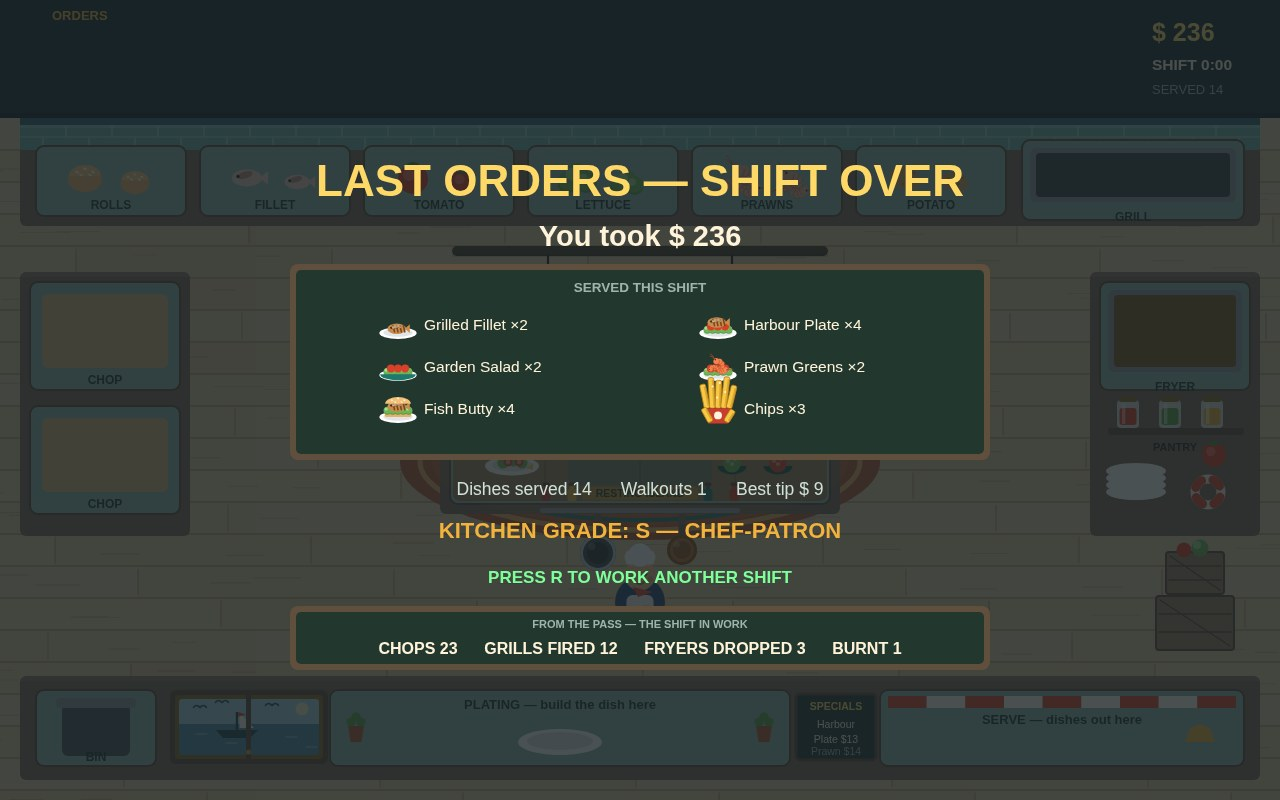
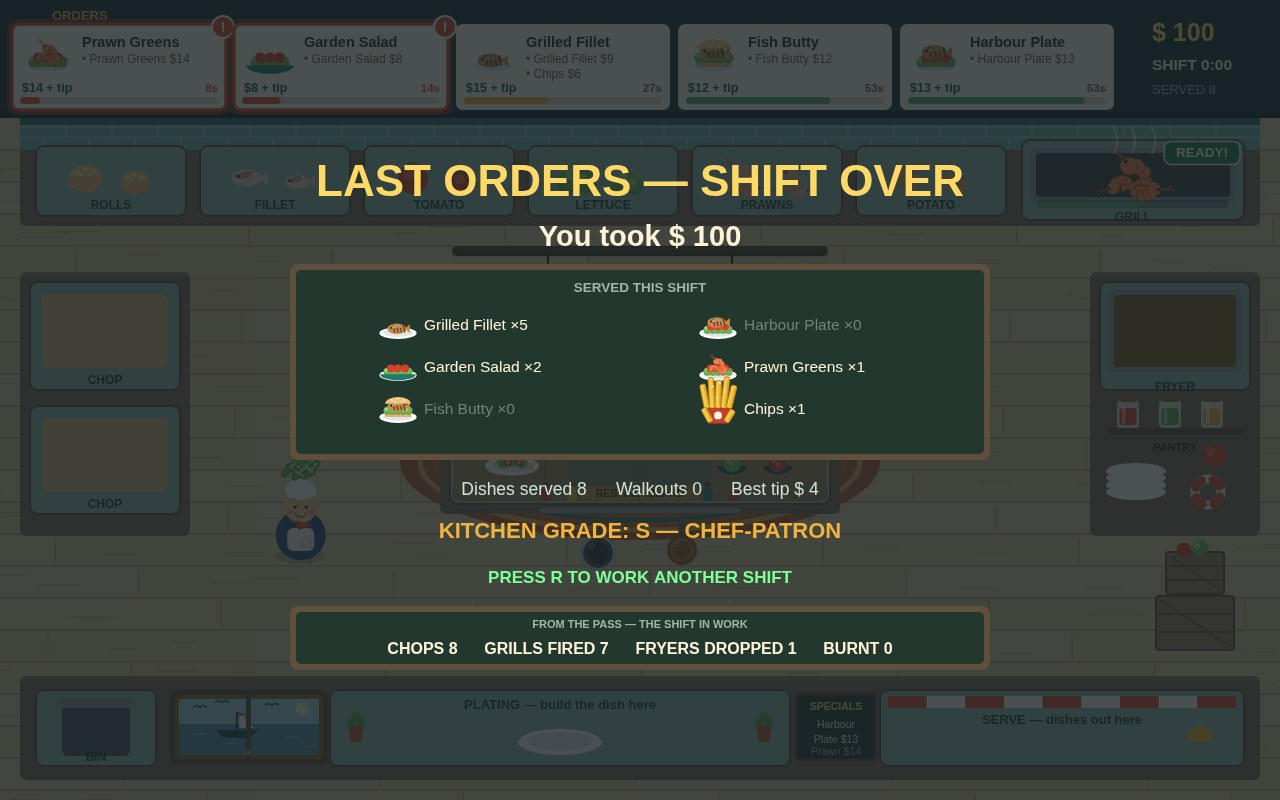
V7: the end scene is one real audited shift (seed 3, $100); every source file opens with the declaration that names its job; red-zone tickets carry an alarm disc and a full board puts the strain on the cook

diff --git a/game/src/render.js b/game/src/render.js
@@ -6,6 +6,38 @@ import { BOARD_H, COLORS, FRYER_BURN, FRYER_COOK, GRILL_BURN, GRILL_COOK, SOLIDS
 import { DISHES, COOKED, FRIES, INGREDIENTS, RECIPES, recipeForStack } from './recipes.js';
 import { nearestStation } from './actions.js';
 
+/**
+ * Draw one whole frame of the game from the state — every pixel the game ever
+ * shows comes out of this function and the drawing helpers below it.
+ */
+export function draw(ctx, state) {
+  ctx.fillStyle = COLORS.wall;
+  ctx.fillRect(0, 0, VIEW.width, VIEW.height);
+  drawKitchen(ctx, state);
+  drawChef(ctx, state);
+  drawBoard(ctx, state);
+  // Floating score notes. Each one is clamped fully inside the frame, however
+  // long its text and wherever it was born — no more tips clipped at the edge.
+  for (const popup of state.popups) {
+    ctx.font = `700 19px ${FONT}`;
+    const half = ctx.measureText(popup.text).width / 2;
+    const px = Math.min(Math.max(popup.x, half + 8), VIEW.width - half - 8);
+    const py = Math.max(popup.y, BOARD_H + 16);
+    ctx.globalAlpha = Math.max(0, 1 - popup.t / popup.life);
+    text(ctx, popup.text, px, py, 19, popup.color);
+    ctx.globalAlpha = 1;
+  }
+  drawOverlays(ctx, state);
+  // The prompt strip along the very bottom.
+  if (state.phase === 'play') {
+    ctx.fillStyle = 'rgba(23,32,36,0.88)';
+    ctx.fillRect(0, VIEW.height - 21, VIEW.width, 21);
+    const showHint = (state.shakeT > 0 || state.hintT > 0) && state.hint;
+    const msg = showHint ? state.hint : state.promptText || '';
+    text(ctx, msg, VIEW.width / 2, VIEW.height - 10, 13.5, showHint ? '#ffab97' : '#e8f0ea');
+  }
+}
+
 const FONT = "'Trebuchet MS', 'Segoe UI', Verdana, sans-serif";
 
 function rr(ctx, x, y, w, h, r) {
@@ -943,6 +975,9 @@ function drawKitchen(ctx, state) {
 function drawChef(ctx, state) {
   const chef = state.chef;
   const bob = Math.sin(chef.walk) * 2.4;
+  // A full board — five tickets, the most the board can hold — is the one
+  // moment the cook's face changes: brows down, mouth flat, sweat flying.
+  const strained = state.phase === 'play' && state.tickets.length >= 5;
   const x = chef.x;
   const y = chef.y + bob * 0.3;
   ctx.fillStyle = 'rgba(0,0,0,0.16)';
@@ -977,9 +1012,50 @@ function drawChef(ctx, state) {
   for (const side of [-1, 1]) {
     ctx.beginPath(); ctx.arc(x + side * 5.6, y - 22 + bob * 0.2, 1.7, 0, Math.PI * 2); ctx.fill();
   }
-  ctx.strokeStyle = '#a96a3f';
-  ctx.lineWidth = 1.5;
-  ctx.beginPath(); ctx.arc(x, y - 17.5 + bob * 0.2, 5.6, 0.25, Math.PI - 0.25); ctx.stroke();
+  if (strained) {
+    // Determined brows, angled down toward the nose.
+    ctx.strokeStyle = '#7a4a26';
+    ctx.lineWidth = 1.9;
+    ctx.lineCap = 'round';
+    for (const side of [-1, 1]) {
+      ctx.beginPath();
+      ctx.moveTo(x + side * 10.2, y - 29.5 + bob * 0.2);
+      ctx.lineTo(x + side * 3.4, y - 26.8 + bob * 0.2);
+      ctx.stroke();
+    }
+    // A flat, set mouth instead of the smile.
+    ctx.strokeStyle = '#a96a3f';
+    ctx.lineWidth = 1.6;
+    ctx.beginPath();
+    ctx.moveTo(x - 4.6, y - 15.6 + bob * 0.2);
+    ctx.lineTo(x + 4.6, y - 16.4 + bob * 0.2);
+    ctx.stroke();
+    // Sweat, flung off both sides of the head and beading at the temple.
+    const drop = (dx, dy, s, rot) => {
+      ctx.save();
+      ctx.translate(x + dx, y + dy);
+      ctx.rotate(rot);
+      ctx.scale(s, s);
+      ctx.fillStyle = '#8ecfe8';
+      ctx.beginPath();
+      ctx.moveTo(0, -7);
+      ctx.quadraticCurveTo(4.6, 0.5, 3.6, 3.4);
+      ctx.quadraticCurveTo(2.6, 6.4, 0, 6.4);
+      ctx.quadraticCurveTo(-2.6, 6.4, -3.6, 3.4);
+      ctx.quadraticCurveTo(-4.6, 0.5, 0, -7);
+      ctx.fill();
+      ctx.fillStyle = 'rgba(255,255,255,0.65)';
+      ctx.beginPath(); ctx.arc(-1.2, 2.6, 1.1, 0, Math.PI * 2); ctx.fill();
+      ctx.restore();
+    };
+    drop(-24, -30, 0.9, -0.5);
+    drop(24.5, -25, 0.75, 0.55);
+    drop(-19, -12, 0.55, -0.9);
+  } else {
+    ctx.strokeStyle = '#a96a3f';
+    ctx.lineWidth = 1.5;
+    ctx.beginPath(); ctx.arc(x, y - 17.5 + bob * 0.2, 5.6, 0.25, Math.PI - 0.25); ctx.stroke();
+  }
   ctx.fillStyle = 'rgba(216,74,47,0.32)';
   for (const side of [-1, 1]) {
     ctx.beginPath(); ctx.arc(x + side * 10.5, y - 17 + bob * 0.2, 2.8, 0, Math.PI * 2); ctx.fill();
@@ -1021,8 +1097,13 @@ function drawBoard(ctx, state) {
     ctx.fillStyle = COLORS.paper;
     rr(ctx, x, y, cardW, h, 7); ctx.fill();
     if (frac < 0.25) {
-      ctx.strokeStyle = COLORS.red;
+      // The red zone, drawn to shout in a still frame: a soft alarm halo
+      // outside the card and a hard red border on it.
+      ctx.strokeStyle = 'rgba(216,74,47,0.4)';
       ctx.lineWidth = 3;
+      rr(ctx, x - 3.5, y - 3.5, cardW + 7, h + 7, 9); ctx.stroke();
+      ctx.strokeStyle = COLORS.red;
+      ctx.lineWidth = 3.4;
       rr(ctx, x, y, cardW, h, 7); ctx.stroke();
     }
     const main = ticket.items[0];
@@ -1050,6 +1131,16 @@ function drawBoard(ctx, state) {
     rr(ctx, x + 8, y + h - 13, cardW - 16, 7, 3.5); ctx.fill();
     ctx.fillStyle = frac > 0.5 ? COLORS.timerGood : frac > 0.25 ? COLORS.timerMid : COLORS.timerBad;
     if (frac > 0) { rr(ctx, x + 8, y + h - 13, (cardW - 16) * frac, 7, 3.5); ctx.fill(); }
+    if (frac < 0.25) {
+      // Last of all on the card: a filled alarm disc on its top corner with a
+      // white bang — the one mark on the board nobody can miss at a glance.
+      ctx.fillStyle = COLORS.red;
+      ctx.beginPath(); ctx.arc(x + cardW - 3, y + 3, 11, 0, Math.PI * 2); ctx.fill();
+      ctx.strokeStyle = '#ffffff';
+      ctx.lineWidth = 2;
+      ctx.beginPath(); ctx.arc(x + cardW - 3, y + 3, 11, 0, Math.PI * 2); ctx.stroke();
+      text(ctx, '!', x + cardW - 3, y + 4, 15, '#ffffff');
+    }
   });
   if (state.tickets.length === 0 && state.phase === 'play') {
     text(ctx, 'No orders — breathe. The rush is coming…', 20, 62, 16, '#9fb4ac', 'left', false);
@@ -1140,34 +1231,5 @@ function drawOverlays(ctx, state) {
     chalkPanel(ctx, 290, 606, 700, 64);
     text(ctx, 'FROM THE PASS — THE SHIFT IN WORK', cx, 625, 11, '#9fb4ac');
     text(ctx, `CHOPS ${stats.chops}      GRILLS FIRED ${stats.grills}      FRYERS DROPPED ${stats.fries}      BURNT ${stats.burns}`, cx, 650, 16, COLORS.cream);
-  }
-}
-
-/** Draw one whole frame of the game from the state. */
-export function draw(ctx, state) {
-  ctx.fillStyle = COLORS.wall;
-  ctx.fillRect(0, 0, VIEW.width, VIEW.height);
-  drawKitchen(ctx, state);
-  drawChef(ctx, state);
-  drawBoard(ctx, state);
-  // Floating score notes. Each one is clamped fully inside the frame, however
-  // long its text and wherever it was born — no more tips clipped at the edge.
-  for (const popup of state.popups) {
-    ctx.font = `700 19px ${FONT}`;
-    const half = ctx.measureText(popup.text).width / 2;
-    const px = Math.min(Math.max(popup.x, half + 8), VIEW.width - half - 8);
-    const py = Math.max(popup.y, BOARD_H + 16);
-    ctx.globalAlpha = Math.max(0, 1 - popup.t / popup.life);
-    text(ctx, popup.text, px, py, 19, popup.color);
-    ctx.globalAlpha = 1;
-  }
-  drawOverlays(ctx, state);
-  // The prompt strip along the very bottom.
-  if (state.phase === 'play') {
-    ctx.fillStyle = 'rgba(23,32,36,0.88)';
-    ctx.fillRect(0, VIEW.height - 21, VIEW.width, 21);
-    const showHint = (state.shakeT > 0 || state.hintT > 0) && state.hint;
-    const msg = showHint ? state.hint : state.promptText || '';
-    text(ctx, msg, VIEW.width / 2, VIEW.height - 10, 13.5, showHint ? '#ffab97' : '#e8f0ea');
   }
 }

diff --git a/game/src/shots.js b/game/src/shots.js
@@ -1,9 +1,18 @@
-// The screenshot scenes behind ?shot=cover|title|rush|end. Each one composes a real game
-// state — real tickets, real machines mid-job, a real plate mid-assembly — with the same
-// constructors the live game uses, then the renderer draws it exactly as it would a live
-// frame. Same name and seed, same frame, every time.
+// The screenshot scenes behind ?shot=cover|title|rush|end. Each one is a real game
+// state — real tickets, real machines mid-job, a real plate mid-assembly — built with
+// the same constructors the live game uses, then drawn by the renderer exactly as it
+// would draw a live frame. The end scene goes one step further: it is the captured
+// final state of one real played shift (see END_RUN below). Same name and seed, same
+// frame, every time.
 
 import { createGame } from './kitchen.js';
+
+/** Build the named scene's state ('cover' for any unknown name). */
+export function stageShot(name) {
+  return (SCENES[name] || cover)();
+}
+
+const SCENES = { cover, title, rush, end };
 
 function ticket(id, lines, price, timeLeft, timeTotal) {
   return { id, items: lines.map(([dish, done]) => ({ dish, done: !!done })), price, timeLeft, timeTotal };
@@ -85,31 +94,64 @@ function rush() {
   return s;
 }
 
-/** Shutters down: the shift's story in numbers. */
+/**
+ * The end scene is not composed — it is captured. This is the final state of
+ * one real shift: the competent-policy audit (work/v7/audit.mjs) playing
+ * seed 3 through these same modules, doors to shutters. $100 taken, eight
+ * tickets served, none walked out, five more still on the board when the
+ * clock died and the prawns for the next one already on the grill — the best
+ * of the audit's 24 seeds, and a state a player can genuinely reach, because
+ * a player (of the scripted kind) reached it. The battery re-runs seed 3 and
+ * asserts every number below is that run's own.
+ */
+const END_RUN = {
+  time: 150.033,
+  score: 100,
+  served: 8,
+  servedBy: { fillet: 5, salad: 2, prawns: 1, fries: 1 },
+  stats: { chops: 8, grills: 7, fries: 1, burns: 0 },
+  walkouts: 0,
+  bestTip: 4,
+  tickets: [
+    { id: 9, items: [{ dish: 'prawns', done: false }], price: 14, timeLeft: 7.8, timeTotal: 77 },
+    { id: 10, items: [{ dish: 'salad', done: false }], price: 8, timeLeft: 13.4, timeTotal: 69 },
+    { id: 11, items: [{ dish: 'fillet', done: false }, { dish: 'fries', done: false }], price: 15, timeLeft: 26.1, timeTotal: 61 },
+    { id: 12, items: [{ dish: 'butty', done: false }], price: 12, timeLeft: 52.567, timeTotal: 72 },
+    { id: 13, items: [{ dish: 'harbour', done: false }], price: 13, timeLeft: 62.367, timeTotal: 70 },
+  ],
+  plate: [],
+  islandItem: null,
+  grill: { item: 'prawns_raw', t: 5.5 },
+  fryer: { item: null, t: 0 },
+  boards: [{ item: null, chops: 0 }, { item: null, chops: 0 }],
+  passDish: null,
+  chef: { x: 300.755, y: 529.088, carry: 'lettuce_cut', face: 1 },
+  popups: [],
+};
+
+/** Shutters down: the shift's story in numbers — one real shift's numbers. */
 function end() {
-  const s = createGame(11);
+  const s = createGame(3);
   s.phase = 'over';
-  s.score = 236;
-  s.served = 14;
-  // Fourteen tickets, three of them combos: fourteen plates plus three chips.
-  s.servedBy = { fillet: 2, salad: 2, butty: 4, harbour: 4, prawns: 2, fries: 3 };
-  // The same shift counted in work, and it agrees with the dishes above:
-  // chops 23 = lettuce 12 (salad 2 + butty 4 + harbour 4 + prawns 2) + tomato 8
-  // (salad 2 + harbour 4 + prawns 2) + potato 3 (the combos' chips); grills
-  // fired 12 = fillets 10 (2 + 4 + 4) + prawns 2; fryers dropped 3 = the chips;
-  // and one fillet was left on the heat too long and binned along the way.
-  s.stats = { chops: 23, grills: 12, fries: 3, burns: 1 };
-  s.walkouts = 1;
-  s.bestTip = 9;
+  s.time = END_RUN.time;
   s.shiftLeft = 0;
-  s.chef.x = 640;
-  s.chef.y = 596;
+  s.score = END_RUN.score;
+  s.served = END_RUN.served;
+  s.servedBy = { ...END_RUN.servedBy };
+  s.stats = { ...END_RUN.stats };
+  s.walkouts = END_RUN.walkouts;
+  s.bestTip = END_RUN.bestTip;
+  s.tickets = END_RUN.tickets.map((t) => ({ ...t, items: t.items.map((l) => ({ ...l })) }));
+  s.plate = [...END_RUN.plate];
+  s.island.item = END_RUN.islandItem;
+  s.grill = { ...END_RUN.grill };
+  s.fryer = { ...END_RUN.fryer };
+  END_RUN.boards.forEach((b, i) => { s.boards[i].item = b.item; s.boards[i].chops = b.chops; });
+  s.passDish = END_RUN.passDish;
+  s.chef.x = END_RUN.chef.x;
+  s.chef.y = END_RUN.chef.y;
+  s.chef.carry = END_RUN.chef.carry;
+  s.chef.face = END_RUN.chef.face;
+  s.popups = END_RUN.popups.map((p) => ({ ...p }));
   return s;
-}
-
-const SCENES = { cover, title, rush, end };
-
-/** Build the named scene's state ('cover' for any unknown name). */
-export function stageShot(name) {
-  return (SCENES[name] || cover)();
 }

diff --git a/game/src/actions.js b/game/src/actions.js
@@ -10,12 +10,6 @@ import { addPopup, heat } from './kitchen.js';
 import { serveDish, spawnTicket, updateTickets } from './orders.js';
 import { sfx } from './sound.js';
 
-function distanceToRect(x, y, rect) {
-  const dx = Math.max(rect.x - x, 0, x - (rect.x + rect.w));
-  const dy = Math.max(rect.y - y, 0, y - (rect.y + rect.h));
-  return Math.hypot(dx, dy);
-}
-
 /** The station the chef can use right now, or null when they are mid-floor. */
 export function nearestStation(state) {
   let best = null;
@@ -28,18 +22,6 @@ export function nearestStation(state) {
     }
   }
   return best;
-}
-
-function boardOf(state, station) {
-  return state.boards.find((b) => b.station === station);
-}
-
-function refuse(state, station, why) {
-  state.shake = station.id;
-  state.shakeT = 0.3;
-  state.hint = why;
-  state.hintT = 2.4;
-  sfx.error();
 }
 
 /**
@@ -287,4 +269,24 @@ export function update(state, dt, input) {
   if (state.popups.length === 0 && state.hint) {
     // Hints linger until the next one replaces them; nothing to do.
   }
+}
+
+// --- Helpers the verbs above share ---------------------------------------------
+
+function distanceToRect(x, y, rect) {
+  const dx = Math.max(rect.x - x, 0, x - (rect.x + rect.w));
+  const dy = Math.max(rect.y - y, 0, y - (rect.y + rect.h));
+  return Math.hypot(dx, dy);
+}
+
+function boardOf(state, station) {
+  return state.boards.find((b) => b.station === station);
+}
+
+function refuse(state, station, why) {
+  state.shake = station.id;
+  state.shakeT = 0.3;
+  state.hint = why;
+  state.hintT = 2.4;
+  sfx.error();
 }

diff --git a/game/src/sound.js b/game/src/sound.js
@@ -2,6 +2,17 @@
 // with WebAudio oscillators so the game ships no audio files. Silent until the first
 // user gesture, and silent forever in screenshot mode.
 
+/** The whole sound set, one tiny synth voice per thing that happens in the kitchen. */
+export const sfx = {
+  pickup() { tone(520, 0.06, 'triangle', 0.12); },
+  place() { tone(340, 0.07, 'triangle', 0.12); },
+  chop() { tone(180, 0.05, 'square', 0.1, 90); },
+  ready() { tone(880, 0.12, 'sine', 0.14); tone(1320, 0.16, 'sine', 0.1); },
+  serve() { tone(1174, 0.1, 'sine', 0.14); setTimeout(() => tone(1568, 0.18, 'sine', 0.12), 70); },
+  error() { tone(140, 0.12, 'sawtooth', 0.08, 110); },
+  walkout() { tone(300, 0.25, 'sine', 0.1, 160); },
+};
+
 let ctx = null;
 let enabled = false;
 
@@ -27,13 +38,3 @@ function tone(freq, seconds, type, gain, slideTo) {
     // No audio on this machine: the game plays on without it.
   }
 }
-
-export const sfx = {
-  pickup() { tone(520, 0.06, 'triangle', 0.12); },
-  place() { tone(340, 0.07, 'triangle', 0.12); },
-  chop() { tone(180, 0.05, 'square', 0.1, 90); },
-  ready() { tone(880, 0.12, 'sine', 0.14); tone(1320, 0.16, 'sine', 0.1); },
-  serve() { tone(1174, 0.1, 'sine', 0.14); setTimeout(() => tone(1568, 0.18, 'sine', 0.12), 70); },
-  error() { tone(140, 0.12, 'sawtooth', 0.08, 110); },
-  walkout() { tone(300, 0.25, 'sine', 0.1, 160); },
-};

diff --git a/game/src/input.js b/game/src/input.js
@@ -1,10 +1,6 @@
 // Keyboard and mouse input: held keys for walking, edge-triggered presses for actions,
 // and a click-to-walk target for the mouse. Nothing here knows what the keys mean.
 
-const held = new Set();
-const pressed = new Set();
-let clickTarget = null;
-
 export function attachInput(target) {
   target.addEventListener('keydown', (event) => {
     if (['ArrowUp', 'ArrowDown', 'ArrowLeft', 'ArrowRight', 'Space'].includes(event.code)) event.preventDefault();
@@ -20,6 +16,11 @@ export function attachClicks(canvas, toWorld) {
     clickTarget = toWorld(event.clientX, event.clientY);
   });
 }
+
+// The listener state the functions above fill and the ones below read.
+const held = new Set();
+const pressed = new Set();
+let clickTarget = null;
 
 export function isDown(code) {
   return held.has(code);
